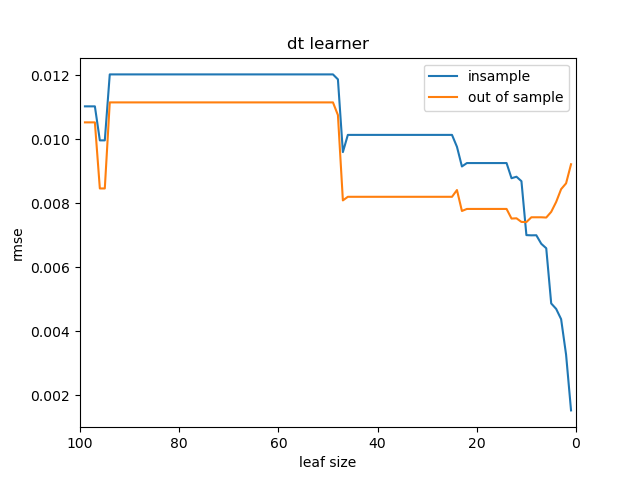
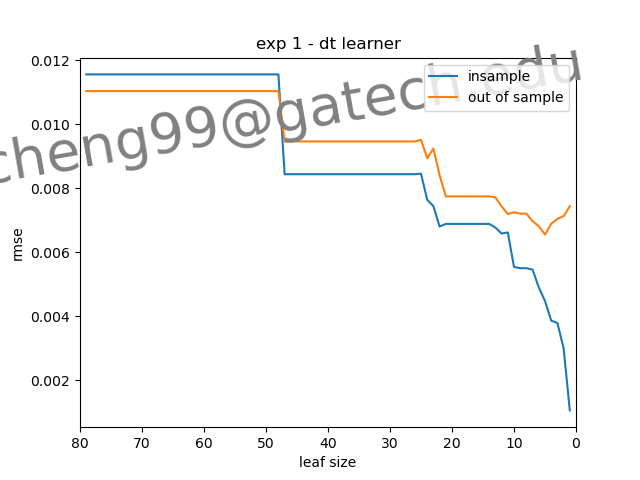
exp 3 - time to train done

diff --git a/ML4T/assess_learners/testlearner.py b/ML4T/assess_learners/testlearner.py
@@ -36,7 +36,7 @@ import RTLearner as rtl
 import BagLearner as bl
 import InsaneLearner as il
 import matplotlib.pyplot as plt
-
+import time
 def print_five():
     print(5)
 
@@ -62,7 +62,7 @@ if __name__ == "__main__":
         print("Usage: python LinRegLearner.py <filename>")
         sys.exit(1)
     #data cleaning specifically for istanbul.csv
-    np.random.seed(0)
+    np.random.seed(903967530)
     inf = open(sys.argv[1])
     data = np.array([])
 
@@ -137,8 +137,6 @@ if __name__ == "__main__":
     Experiment 1
     
     '''
-    # train_x, train_y = resample(train_x, train_y)
-    # test_x, test_y = resample(test_x, test_y)
     # leaf_sizes = []
     # rmse_records_in = []
     # rmse_records_out = []
@@ -148,7 +146,7 @@ if __name__ == "__main__":
     # # learner = lrl.LinRegLearner(verbose=True)  # create a LinRegLearner
     #
     # # for i in range(len(leaf_size)):
-    # for i in range(1, 100):
+    # for i in range(1, 80):
     #     learner = dtl.DTLearner(leaf_size = i)
     #     learner.add_evidence(train_x, train_y)  # train it
     #
@@ -166,19 +164,20 @@ if __name__ == "__main__":
     #     pred_y = learner.query(test_x)
     #     rmse_out = math.sqrt(((test_y - pred_y) ** 2).sum() / test_y.shape[0])
     #     rmse_records_out.append(rmse_out)
-    #
-    #
-    #
+
+
+
     # plt.plot(leaf_sizes, rmse_records_in, label = "insample")
     # plt.plot(leaf_sizes, rmse_records_out, label = "out of sample")
     # plt.legend()
     # plt.title('exp 1 - dt learner')
-    # plt.text(100, 0.005, 'tcheng99@gatech.edu', fontsize = 40, color = 'gray')
-    # plt.xlim(100, 0)
+    #
+    # plt.text(100, 0.008, 'tcheng99@gatech.edu', fontsize=40, color='gray', rotation=10)
+    # plt.xlim(80, 0)
     # plt.xlabel('leaf size')
     # plt.ylabel('rmse')
-    # plt.show()
-    # # plt.savefig('exp1.png')
+    # # plt.show()
+    # plt.savefig('exp1.png')
     # plt.close()
 
     # '''
@@ -189,101 +188,136 @@ if __name__ == "__main__":
     print('running exp 2 - bagging ')
 
 
-
-    leaf_sizes = np.array([])
-    rmse_records_in = np.array([])
-    rmse_records_out = np.array([])
-
-    learners = []
-    for k in range(80):
-
-        learner = bl.BagLearner(learner = dtl.DTLearner, kwargs = {"leaf_size":k}, bags = 20, boost = False, verbose = False)
-        learner.add_evidence(train_x, train_y)  # train it
-        learners.append(learner)
-
-    for i in range(80):
-        learner = learners[i]
-        pred_y = learner.query(train_x)
-        rmse_in = math.sqrt(((train_y - pred_y) ** 2).sum() / train_y.shape[0])
-
-        rmse_records_in = np.append(rmse_records_in, rmse_in)
-        leaf_sizes = np.append(leaf_sizes, i)
-
-        pred_y = learner.query(test_x)
-        rmse_out = math.sqrt(((test_y - pred_y) ** 2).sum() / test_y.shape[0])
-
-        rmse_records_out = np.append(rmse_records_out, rmse_out)
-    print(rmse_records_in)
-    print('---')
-    print(rmse_records_out)
-    print(leaf_sizes)
-    print(rmse_records_in)
-    plt.plot(leaf_sizes, rmse_records_in, label="insample")
-    plt.plot(leaf_sizes, rmse_records_out, label="out of sample")
-    plt.text(100, 0.0120, 'tcheng99@gatech.edu', fontsize=40, color='gray', rotation = 0)
-    plt.text(100, 0.0080, 'tcheng99@gatech.edu', fontsize=40, color='gray', rotation=0)
-    plt.legend()
-    plt.title('exp 2 - bagging algo')
-    plt.xlim(100, 0)
-    plt.xlabel('leaf size')
-    plt.ylabel('rmse')
-    plt.show()
-    plt.savefig('exp2.png')
+    #
+    # leaf_sizes = np.array([])
+    # rmse_records_in = np.array([])
+    # rmse_records_out = np.array([])
+    #
+    # learners = []
+    # for k in range(80):
+    #
+    #     learner = bl.BagLearner(learner = dtl.DTLearner, kwargs = {"leaf_size":k}, bags = 20, boost = False, verbose = False)
+    #     learner.add_evidence(train_x, train_y)  # train it
+    #     learners.append(learner)
+    #
+    # for i in range(80):
+    #     learner = learners[i]
+    #     pred_y = learner.query(train_x)
+    #     rmse_in = math.sqrt(((train_y - pred_y) ** 2).sum() / train_y.shape[0])
+    #
+    #     rmse_records_in = np.append(rmse_records_in, rmse_in)
+    #     leaf_sizes = np.append(leaf_sizes, i)
+    #
+    #     pred_y = learner.query(test_x)
+    #     rmse_out = math.sqrt(((test_y - pred_y) ** 2).sum() / test_y.shape[0])
+    #
+    #     rmse_records_out = np.append(rmse_records_out, rmse_out)
+    # print(rmse_records_in)
+    # print('---')
+    # print(rmse_records_out)
+    # print(leaf_sizes)
+    # print(rmse_records_in)
+    # plt.plot(leaf_sizes, rmse_records_in, label="insample")
+    # plt.plot(leaf_sizes, rmse_records_out, label="out of sample")
+    # plt.text(100, 0.0120, 'tcheng99@gatech.edu', fontsize=40, color='gray', rotation = 0)
+    # plt.text(100, 0.0080, 'tcheng99@gatech.edu', fontsize=40, color='gray', rotation= 0)
+    # plt.legend()
+    # plt.title('exp 2 - bagging algo')
+    # plt.xlim(100, 0)
+    # plt.xlabel('leaf size')
+    # plt.ylabel('rmse')
+    # # plt.show()
+    # plt.savefig('exp2.png')
 
 
     '''
     experiment 3
     '''
     #https://pythonhow.com/how/measure-elapsed-time-in-python/
+    train_x, train_y = resample(train_x, train_y)
+    test_x, test_y = resample(test_x, test_y)
+
 
     '''
     experiment 3a - Time to build
     '''
+    #vanilla python version
+    # leaf_sizes = []
+    # build_times = []
+    # dt_learners = []
+    # rt_learners = []
+    # #model inits
+    # for i in range(0):
+    #     #DT learner setup
+    #     dt_learner = dtl.DTLearner(leaf_size = i)
+    #     start_time = time.time()
+    #     dt_learner.add_evidence(train_x, train_y)
+    #     end_time = time.time()
+    #     dt_learners.append(dt_learner)
+    #     print('dt tree time to build is', (end_time - start_time))
+    #
+    #     # #RT learner setup
+    #     rt_learner = rtl.RTLearner(leaf_size = i)
+    #     start_time = time.time()
+    #     rt_learner.add_evidence(train_x, train_y)
+    #     end_time = time.time()
+    #     rt_learners.append(rt_learner)
+    #     print('rt tree time to build is', (end_time - start_time))
+    #
+    #
+    #np metod
+    leaf_sizes = np.empty((1, 80))
+    build_times = np.empty((2, 80), dtype = float)
+    learners = np.empty((2, 80), dtype = object) #row 1 = DT, row 2 = RT
+
+    # model inits
+    for i in range(80):
+        #leaf sie
+
+        leaf_sizes[0, i] = i
+        # DT learner setup
+        learner = dtl.DTLearner(leaf_size=i)
+        start_time = time.time()
+        learner.add_evidence(train_x, train_y)
+        end_time = time.time()
+        learners[0, i] = learner
+        # print('dt tree time to build is', (end_time - start_time))
+        time_diff = end_time - start_time
+        build_times[0, i] = time_diff
+        # print(learners)
+        # print(build_times)
+        #RT learner setup
+
+        learner = rtl.RTLearner(leaf_size=i)
+        start_time = time.time()
+        learner.add_evidence(train_x, train_y)
+        end_time = time.time()
+        learners[1, i] = learner
+        # print('dt tree time to build is', (end_time - start_time))
+        time_diff = end_time - start_time
+        build_times[1, i] = time_diff
+    # print(leaf_sizes)
+    # print(learners)
+    # print(build_times)
+
+    #Training models
+    # for i in range(80):
+    #     #DT learner
+    #     print('placeholder')
+    # leaf_sizes.reshape(-1)
+    # print(build_times[0, :].reshape(1, -1))
+    a = build_times[0, :].reshape(1, -1)
+    # print(a)
+    # print(leaf_sizes)
+    plt.plot(leaf_sizes[0, :], build_times[0, :], label = 'dtlearner')
+    plt.plot(leaf_sizes[0, :], build_times[1, :], label='rtlearner')
+    plt.legend()
+    plt.title('exp 3 - time to train')
+    plt.xlabel('leaf sizes')
+    plt.ylabel('time to train')
+    plt.show()
 
     '''
     experiment 3b - mean absolute error
     '''
 
-
-'''
-mean rmse
-    for i in range(1, 100):
-        # print_five()
-        learner = dtl.DTLearner(leaf_size = i)
-
-        learner.add_evidence(train_x, train_y)  # train it
-        rmse_in = 0
-        for j in range(10):
-            pred_y = learner.query(train_x)
-            rmse_in += math.sqrt(((train_y - pred_y) ** 2).sum() / train_y.shape[0])
-        mean_rmse_in = rmse_in / 10
-        rmse_records_in = np.append(rmse_records_in, rmse_in)
-        leaf_sizes = np.append(leaf_sizes, i)
-
-        rmse_out = 0
-        for j in range(10):
-            pred_y = learner.query(test_x)
-            rmse_out += math.sqrt(((test_y - pred_y) ** 2).sum() / test_y.shape[0])
-        mean_rmse_out= rmse_out / 10
-        rmse_records_out = np.append(rmse_records_out, rmse_out)
-'''
-
-#     # # evaluate in sample
-# pred_y = learner.query(train_x)  # get the predictions
-#
-#
-# rmse_in = math.sqrt(((train_y - pred_y) ** 2).sum() / train_y.shape[0])
-# rmse_records_in = np.append(rmse_records_in, rmse_in)
-# leaf_sizes = np.append(leaf_sizes, i)
-# print("In sample results")
-# print(f"RMSE: {rmse_in}")
-# print(rmse_records_in)
-
-# c = np.corrcoef(pred_y, y=train_y)
-# print(f"corr: {c[0,1]}")
-
-# evaluate out of sample
-# pred_y = learner.query(test_x)  # get the predictions
-#
-# rmse_out = math.sqrt(((test_y - pred_y) ** 2).sum() / test_y.shape[0])
-# rmse_records_out = np.append(rmse_records_out, rmse_out)

diff --git a/ML4T/assess_learners/np_tester.py b/ML4T/assess_learners/np_tester.py
@@ -1,43 +1,11 @@
-import numpy as np
+import time
 
-# class test case
-x_train = np.array([
-    [.885, .330, 9.1],
-    [.725, .39, 10.9],
-    [.560, .5, 9.4],
-    [.735, .570, 9.8],
-    [.610, .630, 8.4],
-    [.260, .630, 11.8],
-    [.5, .68, 10.5],
-    [.320, .780, 10]
+start_time = time.time()
+time.sleep(1)
+end_time = time.time()
 
-])
 
-y_train = np.array([4, 5, 6, 5, 3, 8, 7, 6])
+print('start is', start_time)
+print('wait is', end_time)
 
-subsample_x = np.matrix([])
-y_subsample = np.array([])
-
-# random_index = np.random.randint(0, x_train.shape[0])
-subsample_x = np.empty((0, x_train.shape[1]))
-subsample_y = np.array([])
-for i in range(10):
-    random_row = np.random.randint(0, x_train.shape[0])
-
-    print('random index is', random_row)
-
-    subsample_x = np.vstack((subsample_x, x_train[random_row, :]))
-    subsample_y = np.append(subsample_y, y_train[random_row])
-print(subsample_x)
-print(subsample_y)
-#
-# # Step 1: Create an empty matrix with shape (0, 5) - 0 rows and 5 columns
-# empty_matrix = np.empty((0, 5))
-#
-# # Step 2: Create a 1-row, 5-column matrix to append
-# new_row = np.array([[1, 2, 3, 4, 5]])
-#
-# # Step 3: Append the new row to the empty matrix
-# result_matrix = np.vstack((empty_matrix, new_row))
-#
-# print(result_matrix)
+print((end_time-start_time))
